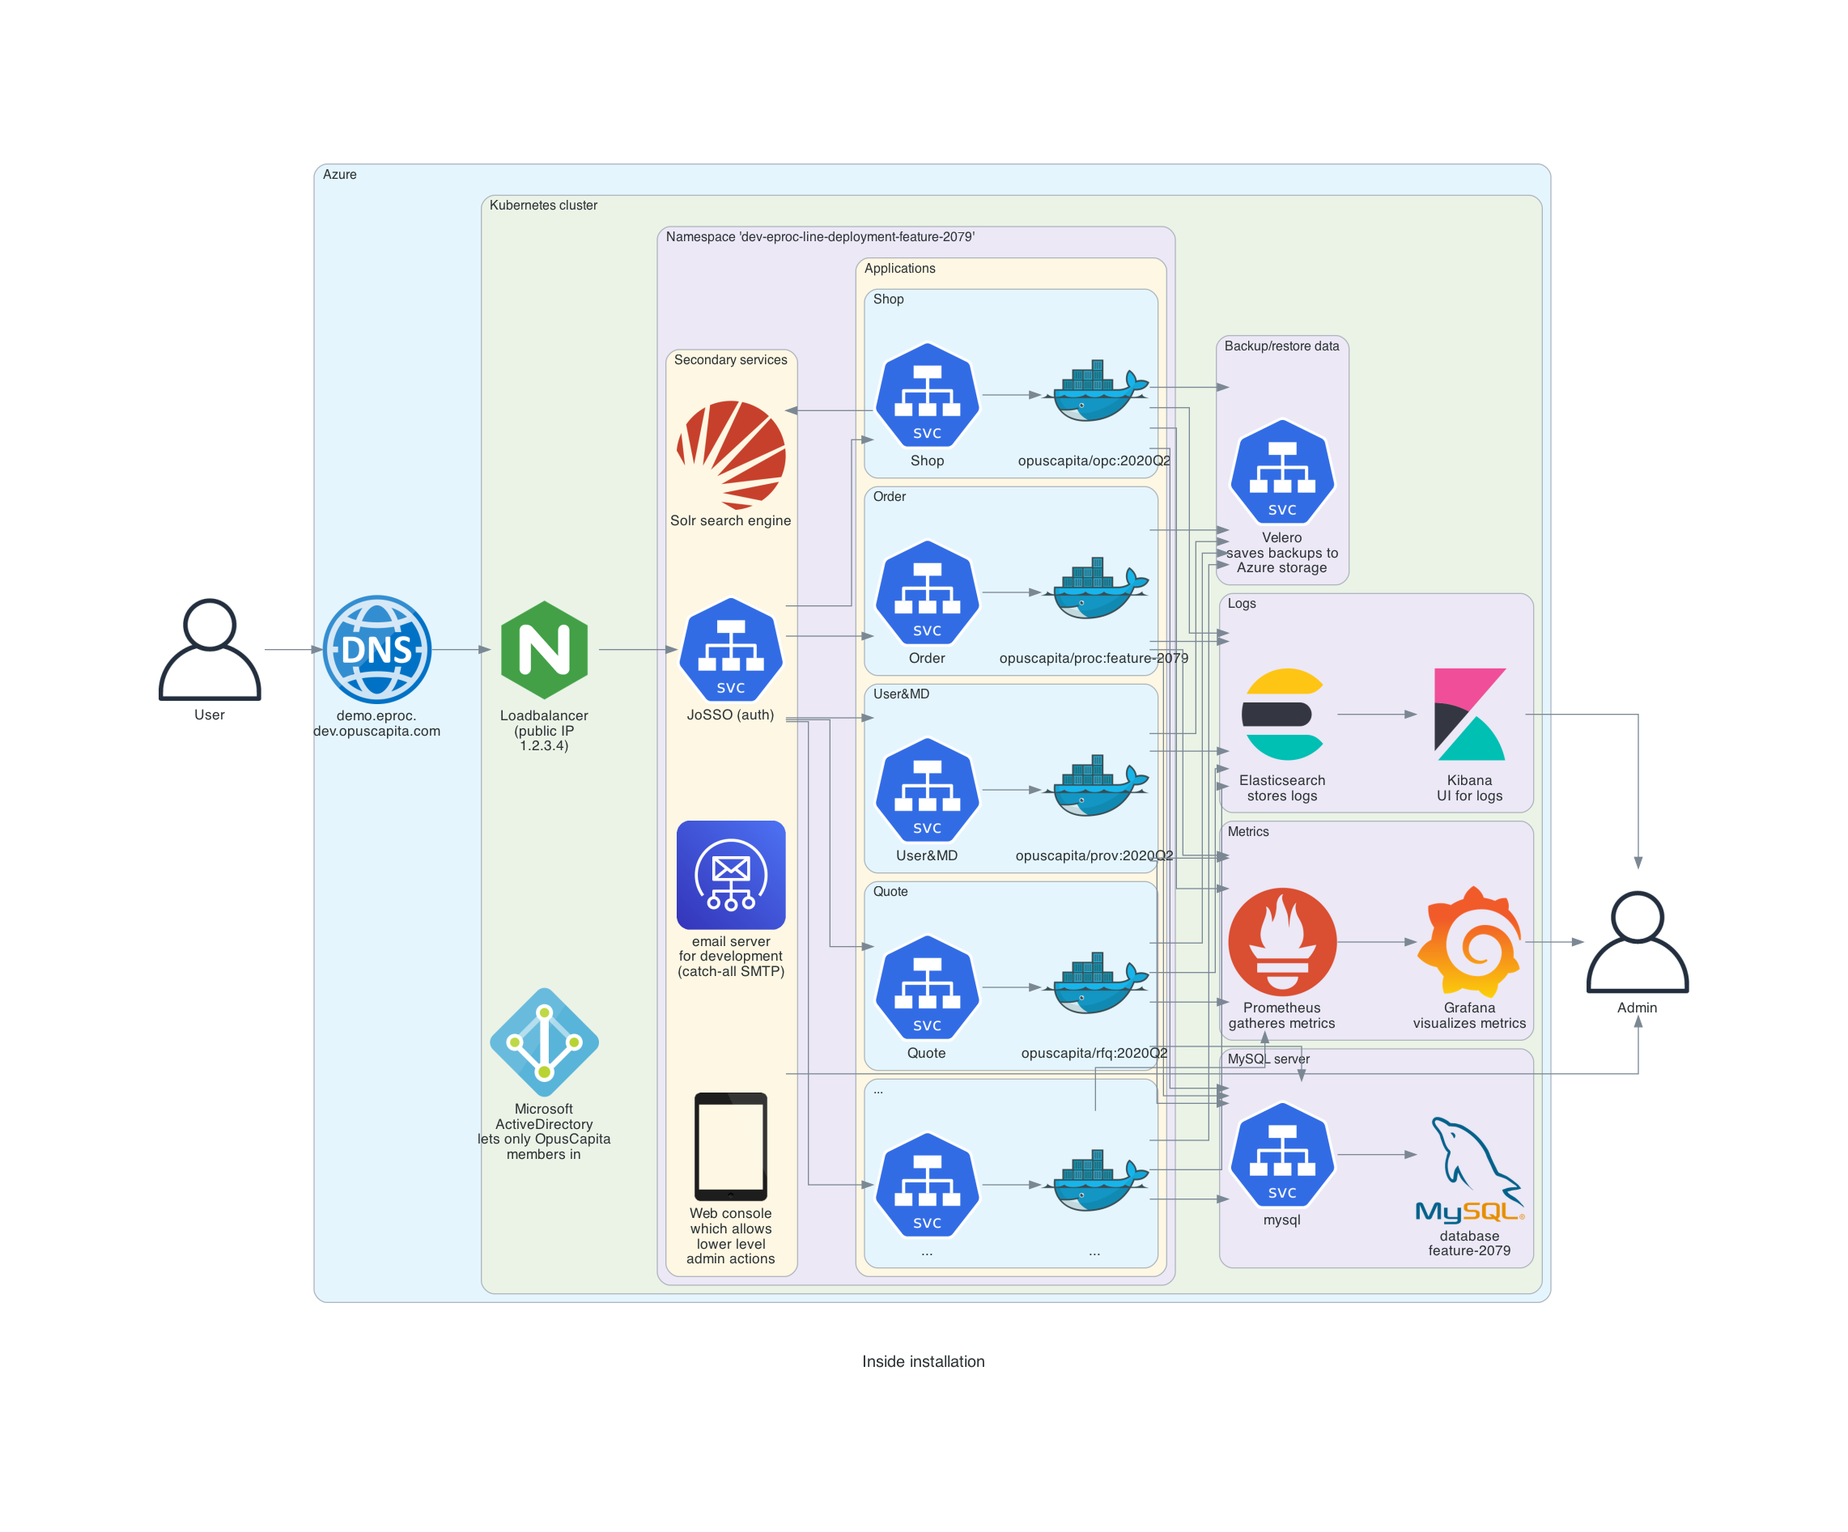
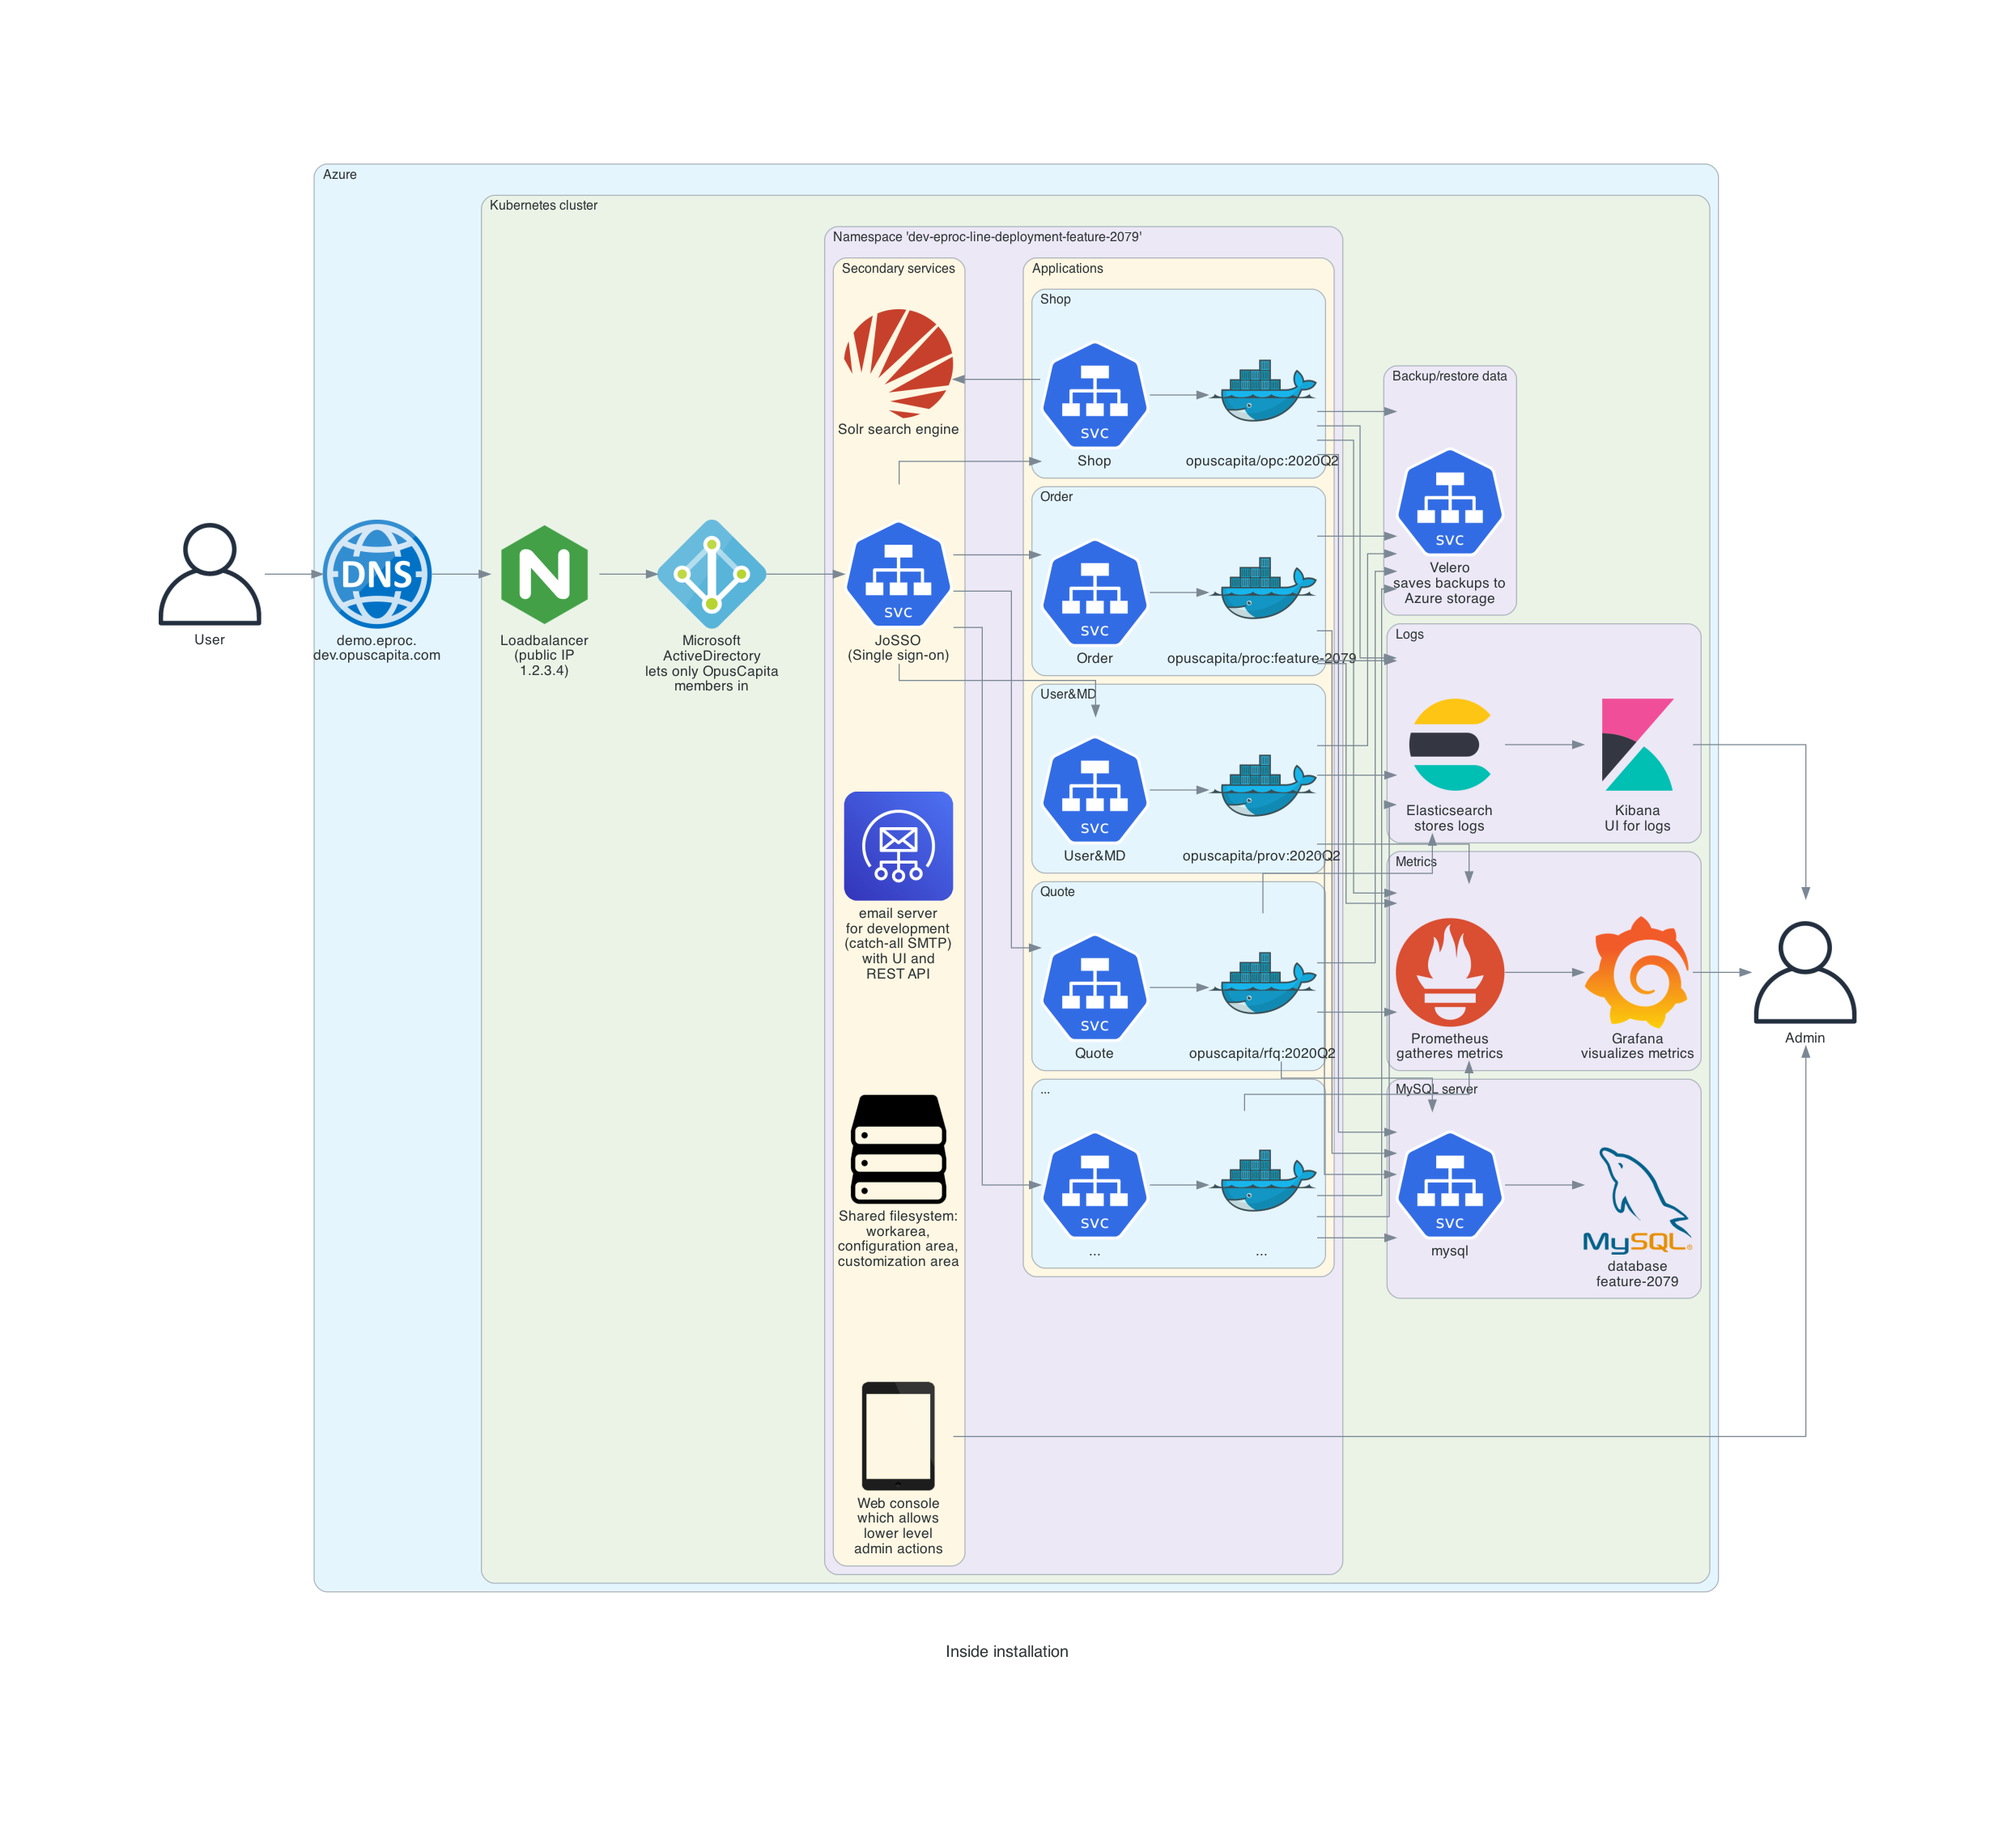
Update eproc-automated-deployments

Changed region(s): [[0.0933, 0.0623, 0.933, 0.935], [0.2488, 0.6233, 0.3421, 0.748], [0.0622, 0.2805, 0.1244, 0.3428]]

diff --git a/eproc-automated-deployments/img/5-inside-installation.py b/eproc-automated-deployments/img/5-inside-installation.py
@@ -17,6 +17,7 @@ from diagrams.azure.identity import ActiveDirectory
 from diagrams.generic.device import Tablet
 from diagrams.azure.storage import StorageAccounts
 from diagrams.onprem.container import Docker
+from diagrams.generic.storage import Storage
 
 with Diagram("\n\nInside installation", show=False):
   user = User("User")
@@ -62,10 +63,12 @@ with Diagram("\n\nInside installation", show=False):
           solr = Solr("Solr search engine")
           opc >> solr
 
-          josso = SVC("JoSSO (auth)")
-          user >> dns >> lb >> josso >> apps
+          josso = SVC("JoSSO\n(Single sign-on)")
+          user >> dns >> lb >> oauth2 >> josso >> apps
 
-          email = SimpleEmailServiceSes("email server\nfor development\n(catch-all SMTP)")
+          email = SimpleEmailServiceSes("email server\nfor development\n(catch-all SMTP)\nwith UI and\nREST API")
+
+          fs = Storage("Shared filesystem:\nworkarea,\nconfiguration area,\ncustomization area")
 
           shell = Tablet("Web console\nwhich allows\nlower level\nadmin actions")
 
